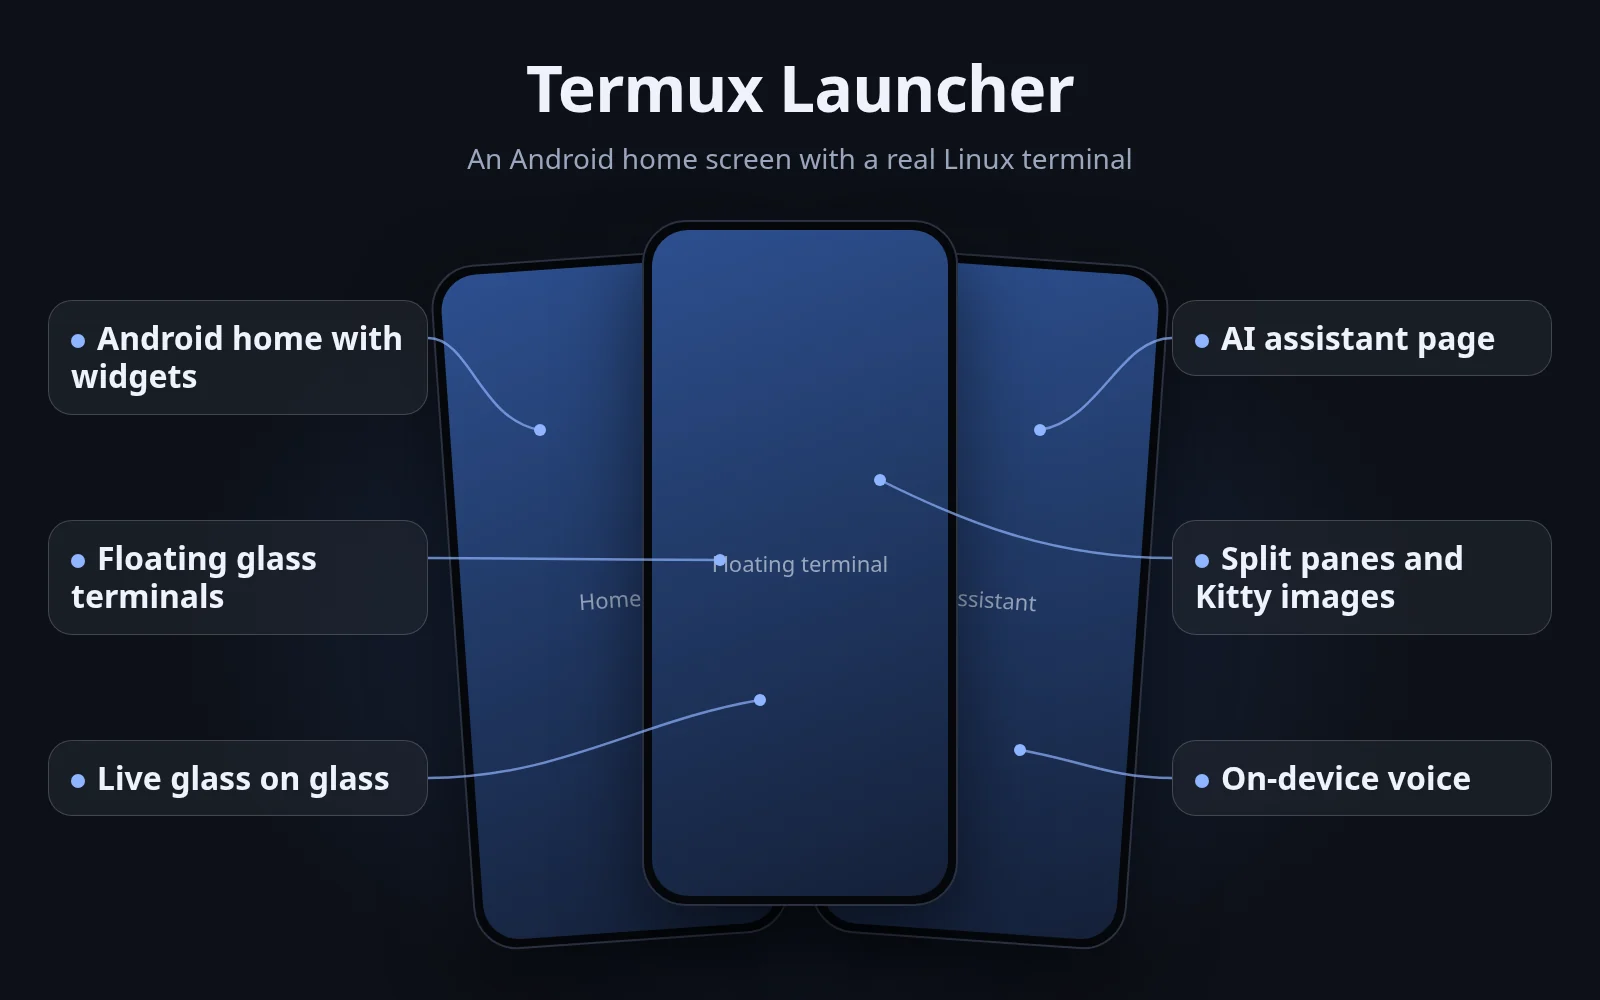
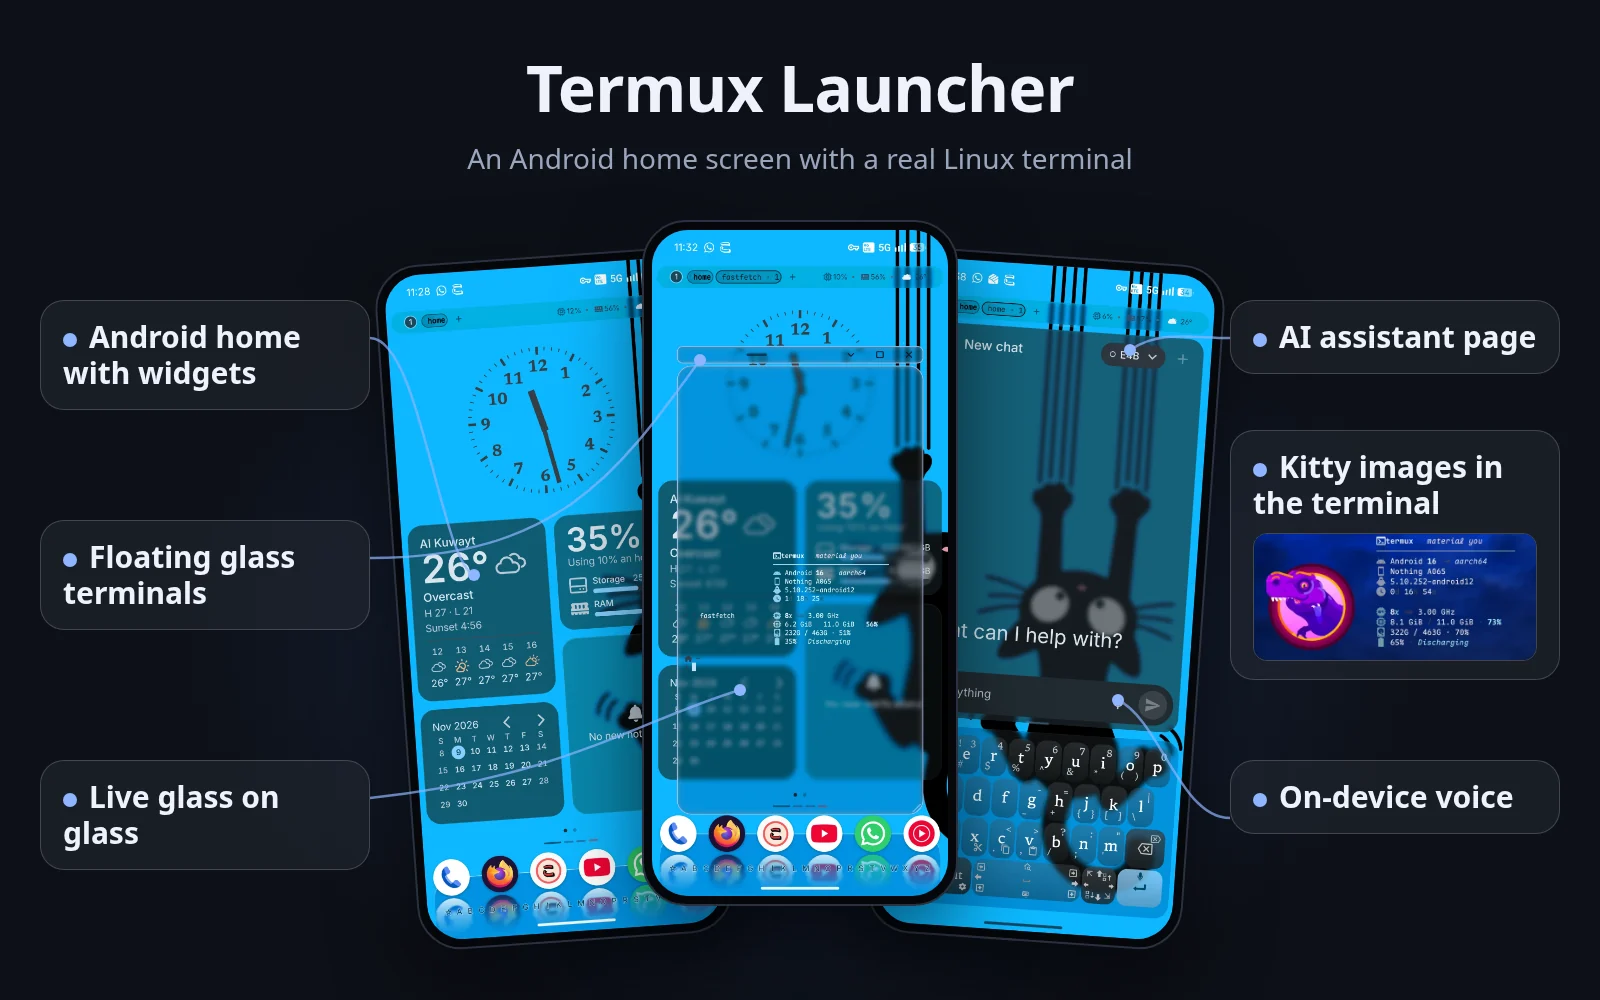
docs(readme): v2 screens from pong in the hero
Home, a floating glass terminal and the Assistant page, captured on the
developer's phone; the Kitty callout carries a fastfetch crop from the
website (Kitty images do not draw inside a Home float yet).

diff --git a/screenshots/readme-hero/hero.html b/screenshots/readme-hero/hero.html
@@ -46,24 +46,26 @@
     color: var(--ink-dim); font-size: 22px; text-align: center;
   }
   .phone img { width: 100%; height: 100%; object-fit: cover; object-position: top; display: block; }
-  .p-home  { left: 452px; transform: rotate(-4deg); top: 256px; }
+  .p-home  { left: 396px; transform: rotate(-4deg); top: 256px; }
   .p-float { left: 642px; z-index: 2; top: 220px; }
-  .p-ai    { left: 832px; transform: rotate(4deg); top: 256px; }
+  .p-ai    { left: 888px; transform: rotate(4deg); top: 256px; }
 
   /* Callouts */
   .callout {
-    position: absolute; width: 380px;
+    position: absolute; width: 330px;
     padding: 18px 22px; border-radius: var(--radius-lg);
     background: var(--glass); border: 1px solid var(--rim);
-    font-size: 32px; font-weight: 600; line-height: 1.2;
+    font-size: 30px; font-weight: 600; line-height: 1.2;
   }
   .callout .dot {
     display: inline-block; width: 14px; height: 14px; border-radius: 50%;
     background: var(--accent); margin-right: 12px; vertical-align: middle;
   }
-  .left  { left: 48px; }
-  .right { right: 48px; }
-  .r1 { top: 300px; } .r2 { top: 520px; } .r3 { top: 740px; }
+  .left  { left: 40px; }
+  .right { right: 40px; }
+  .r1 { top: 300px; } .r2 { top: 520px; } .r3 { top: 760px; }
+  .r2k { top: 430px; }
+  .callout .inset { display: block; width: 100%; margin-top: 12px; border-radius: 14px; border: 1px solid var(--rim); }
   svg.lines { position: absolute; inset: 0; z-index: 3; pointer-events: none; }
   svg.lines path { stroke: var(--accent); stroke-width: 2.5; fill: none; opacity: 0.7; }
   svg.lines circle { fill: var(--accent); }
@@ -75,7 +77,7 @@
     <p>An Android home screen with a real Linux terminal</p>
   </header>
 
-  <!-- Each screen shows shots/<name>.png when present, otherwise the label. -->
+  <!-- Each screen shows shots/<name>.webp when present, otherwise the label. -->
   <div class="phone p-home"><div class="screen" data-shot="home">Home</div></div>
   <div class="phone p-float"><div class="screen" data-shot="float">Floating terminal</div></div>
   <div class="phone p-ai"><div class="screen" data-shot="assistant">Assistant</div></div>
@@ -84,24 +86,23 @@
   <div class="callout left r2"><span class="dot"></span>Floating glass terminals</div>
   <div class="callout left r3"><span class="dot"></span>Live glass on glass</div>
   <div class="callout right r1"><span class="dot"></span>AI assistant page</div>
-  <div class="callout right r2"><span class="dot"></span>Split panes and Kitty images</div>
+  <div class="callout right r2k"><span class="dot"></span>Kitty images in the terminal<img class="inset" src="shots/kitty.webp" alt=""></div>
   <div class="callout right r3"><span class="dot"></span>On-device voice</div>
 
   <!-- Leader lines: callout edge to a point on a phone. Adjust the end points if shots move. -->
   <svg class="lines" viewBox="0 0 1600 1000">
-    <path d="M428 338 C 470 338, 480 420, 540 430"/><circle cx="540" cy="430" r="6"/>
-    <path d="M428 558 C 560 558, 620 560, 720 560"/><circle cx="720" cy="560" r="6"/>
-    <path d="M428 778 C 560 778, 640 720, 760 700"/><circle cx="760" cy="700" r="6"/>
-    <path d="M1172 338 C 1120 338, 1100 420, 1040 430"/><circle cx="1040" cy="430" r="6"/>
-    <path d="M1172 558 C 1050 558, 960 520, 880 480"/><circle cx="880" cy="480" r="6"/>
-    <path d="M1172 778 C 1110 778, 1080 760, 1020 750"/><circle cx="1020" cy="750" r="6"/>
+    <path d="M370 338 C 420 338, 440 560, 474 575"/><circle cx="474" cy="575" r="6"/>
+    <path d="M370 558 C 560 558, 620 470, 700 360"/><circle cx="700" cy="360" r="6"/>
+    <path d="M370 798 C 560 778, 640 720, 740 690"/><circle cx="740" cy="690" r="6"/>
+    <path d="M1230 338 C 1190 338, 1160 330, 1130 350"/><circle cx="1130" cy="350" r="6"/>
+    <path d="M1230 818 C 1180 818, 1160 720, 1118 700"/><circle cx="1118" cy="700" r="6"/>
   </svg>
 
   <script>
     for (const el of document.querySelectorAll('[data-shot]')) {
       const img = new Image();
       img.onload = () => { el.textContent = ''; el.appendChild(img); };
-      img.src = 'shots/' + el.dataset.shot + '.png';
+      img.src = 'shots/' + el.dataset.shot + '.webp';
     }
   </script>
 </body>

diff --git a/README.md b/README.md
@@ -1,5 +1,5 @@
 <p align="center">
-  <img src="screenshots/hero.webp" alt="Termux Launcher: an Android home screen with a real Linux terminal. Three phones show the Home page with widgets, a floating glass terminal, and the AI assistant page. Callouts: Android home with widgets; floating glass terminals; live glass on glass; AI assistant page; split panes and Kitty images; on-device voice." width="100%">
+  <img src="screenshots/hero.webp" alt="Termux Launcher: an Android home screen with a real Linux terminal. Three phones show the Home page with widgets, a floating glass terminal, and the AI assistant page. Callouts: Android home with widgets; floating glass terminals; live glass on glass; AI assistant page; Kitty images in the terminal; on-device voice." width="100%">
 </p>
 
 <p align="center">
